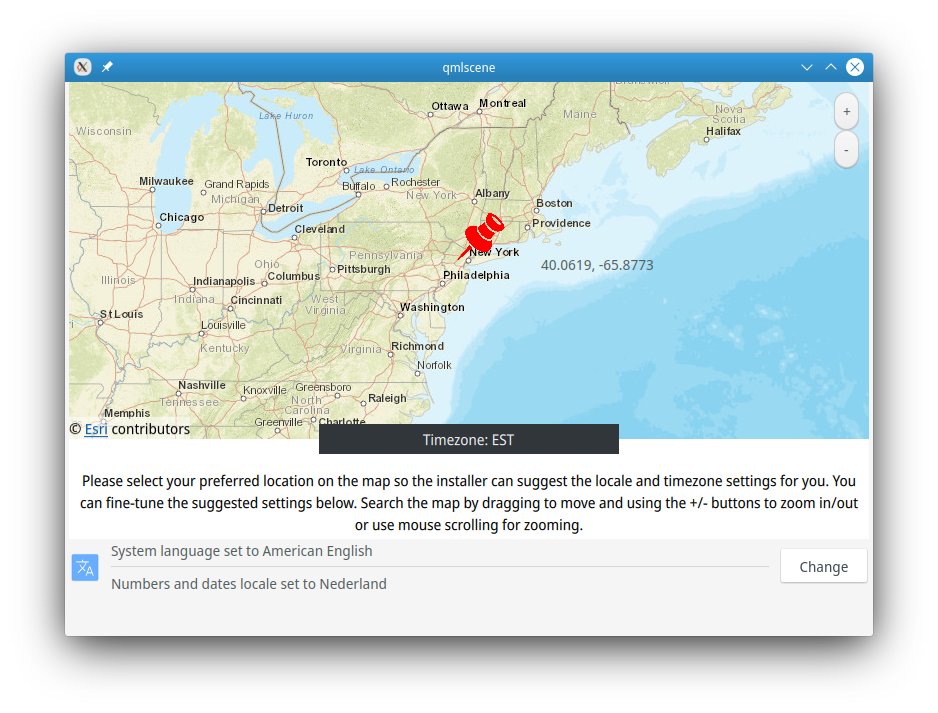
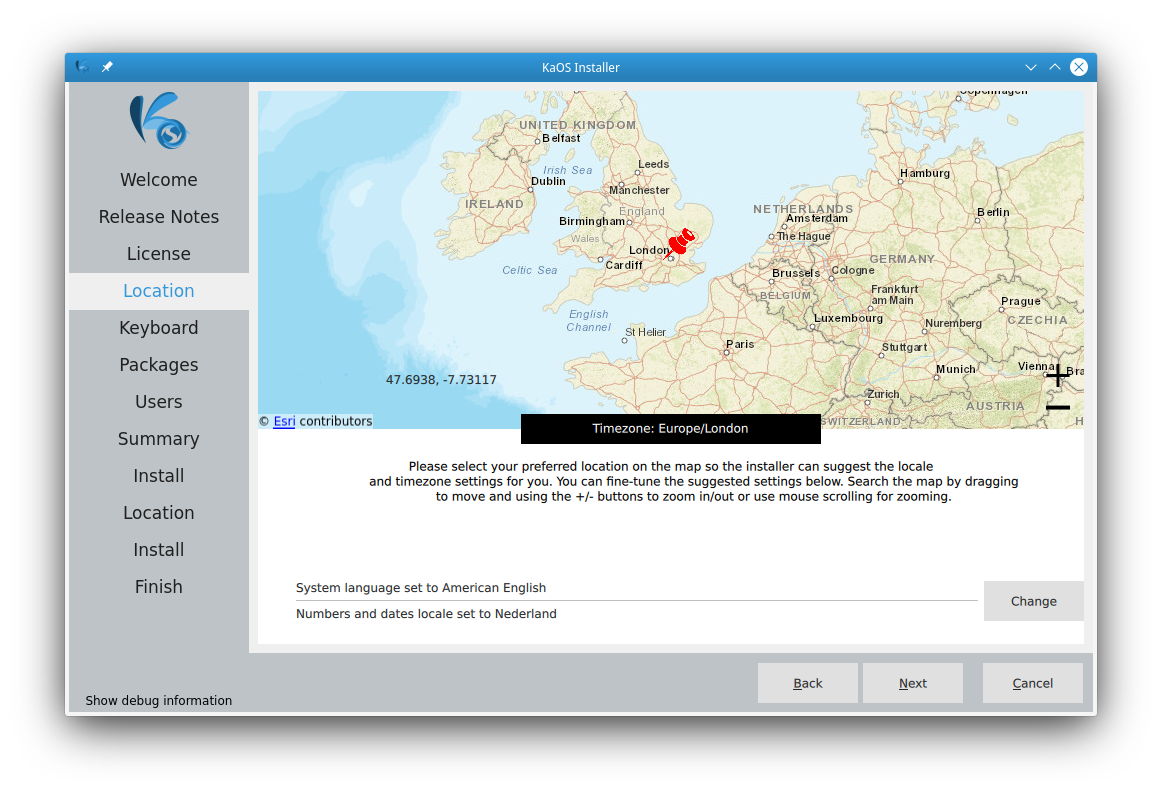
July ISO release new images, updated text, new news page

diff --git a/pages/release_notes/index.html b/pages/release_notes/index.html
@@ -19,28 +19,19 @@ categories: []
 tags: []
 comments: []
 ---
-<h3>KaOS - 2020.05</h3>
-    <p>KaOS is very proud to announce the availability of the May release of a new stable ISO.</p>
+<h3>KaOS - 2020.07</h3>
+    <p>KaOS is very proud to announce the availability of the July release of a new stable ISO.</p>
             
-    <p>This release is unlike the February version, not about many new features, but rather about updates and rebuilds. Most of the base of this distribution has been rebuild on a new GCC 9.3.0, Glibc 2.31 & Binutils 2.34 based Toolchain. Other rebuilds were needed for ICU 66.1, Boost 1.72.0, Krb5 1.18, Glib2 2.64.2 based stack, Guile 2.2.6, Mesa 20.0.6, NetworkManager 1.22.10, Perl 5.30.2, Linux 5.6.8 and Qt 5.14.2.</p>
+    <p>You will find <b>Plasma 5.19</b> on this ISO. Highlights of 5.19 include incorporation of a consistent design and header area for system tray applets as well as notifications, refreshed look of the media playback applet in the System Tray, System monitor widgets have all been rewritten from scratch and Sticky notes get several usability improvements and if you use Wayland, you will also appreciate the new option that lets you configure the mouse and touchpad scroll speed .<br />
+    Frameworks is at 5.72.0, Plasma at 5.19.3, and KDE Applications at 20.04.3. All built on <b>Qt 5.15.0</b>.
     
-    <p>The new features from the last, major, release were numerous, so repeated here one more time. Not since 2014 has there been a KaOS ISO with this many new features.  It starts with the installer, there it is  now possible <b>to select whether or not to install</b> an OfficeSuite (current choice is limited to LibreOffice, future might see the addition of Calligra as option).  You can also opt to do a minimal install. This means opting for a fully functional Plasma Desktop with a filemanager, texteditor, and simple web-browser, but no further applications. So there won't be a music player, image viewer, office suite and so on. You as a user can decide once the system is installed what to add when the minimal install was chosen.</p>
+    <p>For the installer Calamares, KaOS has started a move to using as many QML modules as possible. For the Welcome screen that means any text or needed info can now be shown as a qml file within the Calamares window, no need for pop-ups or external applications. The keyboard module is also rewritten in QML, which now gives a much clearer overview of possible keyboard models, languages and variants.</p>
     
-    <p>That brings us to the next new feature. To help with selecting what to add to your new install, the first run wizard Croeso has the option added <b>to install packages</b> from six commonly used groups. For example, one group will give a choice of four different web-browsers to add, so it is now very simple to add Chrome or Firefox. Since KaOS has never installed an email client by default, there naturally is now a group for that too.<br />
-    The above new feature makes it no longer needed to ship as many applications by default on the ISO,  thus the number of installed packages has been reduced from roughly 980 to a little over 900.</p>
+    <p>A few new firmwares/modules have been added to the repositories, this include sof-firmware (needed for newer sound-cards, will move to linux-firmware soon according to upstream reports) and two new rtl wifi modules (rtl8723de & rtl8821ce). New applications added include Photoflare, the musicplayer VVave (the successor of Babe), and Kdiff3.</p>
     
-    <p>A smaller change is done for the Welcome application as seen in Live mode. The installed package list is now part of the main window with its own tab in the slideview.  No longer is there a need to open a new window for this list.</p>
+    <p>Updates to the base of this distribution include Cfitiso 3.480, Poppler 0.90.1, Pciutils 3.7.0, Git 2.27.0, Libacp 2.39, Pam 1.4.0. Other rebuilds were needed for ICU 66.1, Boost 1.72.0, Krb5 1.18, Glib2 2.64.3 based stack, Guile 2.2.6, Mesa 20.1.3, NetworkManager 1.26.0, Perl 5.30.3, Linux 5.7.8 and Qt 5.15.0.</p>
     
-    <p>The Midna them used for KaOS has been redone for 2020, biggest change there is the move from QtCurve to <b>Kvantum</b> for the application style.  Implemented is a custom Midna Kvantum theme, following the same style as used in Croeso and the Welcome application. Ksplash is simplified with less moving images, SDDM theme has better contrast.  Complete new is <b>theming for the systemd-bootloader</b>, gone is the standard black background with white text, instead, you will see a well-intgrated option with the rest of the Midna theme.  The grub bootloader was updated to follow a similar look as the systemd-bootloader.</p>
-            
-    <p>For the installer Calamares, a second new feature was added.  The Release Notes are now shown in a QML module, so there no longer is a need to work around sandboxing issues with QtWebengine or having to use the depreciated QtWebkit.</p>
-    
-    <p>You will find <b>KDE Applications 20.04.0</b> on this ISO already. Highlights of 20.04 include Okular now implements smooth scrolling both when you are using the mouse wheel and the keyboard, Elisa added visual shuffle mode, it’s much easier to rearrange your music in the playlists. Now you can start watching movies stored on remote sites without having to download them, and instead stream them directly from the cloud to your player through <strong>Dolphin</strong>, which also added the new Duplicate function. One of KDE Connects newest features shipped with this release is the ability to start new conversations with the SMS app.<br />
-    Frameworks is at 5.69.0, Plasma at 5.18.4 and KDE Applications at 20.04.0. All built on <b>Qt 5.14.2</b>.
-    
-    <p>Last new feature you will see on this ISO is the change of package compression standard from tar.xz to tar.zst. ZSTD brings a significant improvement of decompression speed over XZ, while bringing only a marginal larger package size.</p>
-            
-    <p>KaOS is working on a complete rewrite of the Locale module for the installer.  It will feature a modern look (based on QML) with a real live, accurate map.  A preview is included in this ISO, but not ready to be used as default yet (to preview, you will need to edit `/usr/share/calamares/settings.conf` and replace `locale` with `localeq` before starting the installer). Once fully working, it will be presented to upstream Calamares for inclusion there.
+    <p>The Midna them used for KaOS has been redone for 2020, biggest change there is the move from QtCurve to <b>Kvantum</b> for the application style.  Implemented is a custom Midna Kvantum theme, following the same style as used in Croeso and the Welcome application. Ksplash is simplified with less moving images, SDDM theme has better contrast.  Complete new is <b>theming for the systemd-bootloader</b>, gone is the standard black background with white text, instead you will see a well intgrated option with the rest of the Midna theme.  The grub bootloader was updated to follow a similar look as the systemd-bootloader.</p>
     
     <p>Since LibreOffice 6.2, it is now possible to supply this as a pure Qt5/kf5 application.  LibreOffice has thus replaced Calligra as the default Office Application for KaOS.</p>
     
@@ -62,12 +53,12 @@ comments: []
     
     <p>To avoid any misunderstanding and confusion, KaOS is <b>not based upon, derived of, or inspired by</b> any one particular distribution. It is completely independent, build entirely from scratch with its own repositories. To read more about this see <a href="http://kaosx.us/about/based/">FAQ</a>. A <b>rolling release distribution</b> never has a "final" release, every ISO is merely a snapshot of the current status of the repositories. An idea what is currently available:</p>
     
-    <p>The ISO ships with <b>Frameworks 5.69.0, Plasma 5.18.4, KDE Applications 20.04.0</b>, Linux 5.6.8, Systemd 244, Kmod 27, NetworkManager 1.22.10, LibreOffice 6.4.3, Krita 4.2.9, Elisa, Xorg-Server 1.20.8, Mesa 20.0.6, Glibc 2.31, GCC 9.3.0, non-free Nvidia 440.82, Pepperflash and Python3 3.7.7 to name a few.</p>
+    <p>The ISO ships with <b>Frameworks 5.72.0, Plasma 5.19.3, KDE Applications 20.04.3</b>, Linux 5.7.8, Systemd 244, Kmod 27, NetworkManager 1.26.0, LibreOffice 6.4.5, Krita 4.3.0, Elisa, Xorg-Server 1.20.8, Mesa 20.1.3, Glibc 2.31, GCC 9.3.0, non-free Nvidia 440.100, Pepperflash and Python3 3.7.8 to name a few.</p>
     
-    <p>The package manager is <strong>Pacman 5.2.1</strong>, with the simple but powerful Octopi 0.9dev as GUI frontend. Default web browser is Qt based Falkon 3.1.0. <b>GFXboot</b> is included with KaOS artwork, Grub theme is Midna, Look &amp; Feel is a KaOS exclusive version "Midna", redone for 2020.</p>
+    <p>The package manager is <strong>Pacman 5.2.2</strong>, with the simple but powerful Octopi 0.9dev as GUI frontend. Default web browser is Qt based Falkon 3.1.0. <b>GFXboot</b> is included with KaOS artwork, Grub theme is Midna, Look &amp; Feel is a KaOS exclusive version "Midna", redone for 2020.</p>
     
-    <p><b>Repositories</b> of KaOS will stay limited in size and expect it to stay at the current maximum of about 2100-2200. A gist of what is available, besides the stable kernel there is Linux-next 5.6, Calligra 3.2, VLC, Vokoscreen, Blender, Kodi, Calibre, Sigil, Vulkan packages, a few games like 0ad and Knights.<br />
-    A limited number of the most well-known GTK applications are available, examples Firefox 75.0, Chrome 84, Ardour 5.12.0, Inkscape 0.92.5, GIMP 2.10.18 and Google-talkplugin 5.41.3.0.1.<br />
+    <p><b>Repositories</b> of KaOS will stay limited in size and expect it to stay at the current maximum of about 2100-2200. A gist of what is available, besides the stable kernel there is Linux-next 5.7, Calligra 3.2, VLC, Vokoscreen, Blender, Kodi, Calibre, Sigil, Vulkan packages, a few games like 0ad and Knights.<br />
+    A limited number of the most well-known GTK applications are available, examples Firefox 78.0.2, Chrome 85, Ardour 6.2.0 Inkscape 1.0, GIMP 2.10.20 and Google-talkplugin 5.41.3.0.1.<br />
     Complete language packs are available for KDE, Calligra, Firefox, LibreOffice and Thunderbird. For IM, Fcitx 4.2.9.6 is available as a rather complete group.</p>
     
     <p><b>Known issues:</b></p>

diff --git a/_includes/sidebar.html b/_includes/sidebar.html
@@ -1,14 +1,14 @@
 <aside class="Docs-nav">
   <h4>ISO</h4>
-  <img alt="Downloads of KaOS at SourceForge" title="Total downloads from SourceForge" src="https://img.shields.io/sourceforge/dt/kaosx/ISO?color=blue&style=flat-square" >
+  <img alt="Downloads of KaOS at SourceForge" title="Total downloads from SourceForge" src="https://img.shields.io/sourceforge/dt/kaosx?color=blue&style=flat-square" >
 
   <ul style="none">
-    <li><a href="https://sourceforge.net/projects/kaosx/files/ISO/KaOS-2020.05-x86_64.iso" onClick="ga('send', 'event', { eventCategory: 'downloads', eventAction: 'click', eventLabel: 'sf', eventValue: 1});">KaOS ISO</a></li>
-    <li><a href="http://mirror6.layerjet.com/kaos/KaOS-2020.05-x86_64.iso" onClick="ga('send', 'event', { eventCategory: 'downloads', eventAction: 'click', eventLabel: 'de', eventValue: 1});">German Mirror</a></li>
-    <li><a href="http://kaos.youm.org/KaOS-2020.05-x86_64.iso" onClick="ga('send', 'event', { eventCategory: 'downloads', eventAction: 'click', eventLabel: 'fr', eventValue: 1});">French Mirror</a></li>
-    <li><a href="https://mirrors.shu.edu.cn/kaoslinux/KaOS-2020.05-x86_64.iso" onClick="ga('send', 'event', { eventCategory: 'downloads', eventAction: 'click', eventLabel: 'ch', eventValue: 1});">Chinese Mirror</a></li>
-    <li><a href="http://193.86.184.157/kaos/KaOS-2020.05-x86_64.iso" onClick="ga('send', 'event', { eventCategory: 'downloads', eventAction: 'click', eventLabel: 'cz', eventValue: 1});">Czech Mirror</a></li>
-    <a href="https://mirror.math.princeton.edu/pub/kaoslinux/KaOS-2020.05-x86_64.iso" onClick="ga('send', 'event', { eventCategory: 'downloads', eventAction: 'click', eventLabel: 'usa', eventValue: 1});">USA Mirror</a>
+    <li><a href="https://sourceforge.net/projects/kaosx/files/ISO/KaOS-2020.07-x86_64.iso" onClick="ga('send', 'event', { eventCategory: 'downloads', eventAction: 'click', eventLabel: 'sf', eventValue: 1});">KaOS ISO</a></li>
+    <li><a href="http://mirror6.layerjet.com/kaos/KaOS-2020.07-x86_64.iso" onClick="ga('send', 'event', { eventCategory: 'downloads', eventAction: 'click', eventLabel: 'de', eventValue: 1});">German Mirror</a></li>
+    <li><a href="http://kaos.youm.org/KaOS-2020.07-x86_64.iso" onClick="ga('send', 'event', { eventCategory: 'downloads', eventAction: 'click', eventLabel: 'fr', eventValue: 1});">French Mirror</a></li>
+    <li><a href="https://mirrors.shu.edu.cn/kaoslinux/KaOS-2020.07-x86_64.iso" onClick="ga('send', 'event', { eventCategory: 'downloads', eventAction: 'click', eventLabel: 'ch', eventValue: 1});">Chinese Mirror</a></li>
+    <li><a href="http://193.86.184.157/kaos/KaOS-2020.07-x86_64.iso" onClick="ga('send', 'event', { eventCategory: 'downloads', eventAction: 'click', eventLabel: 'cz', eventValue: 1});">Czech Mirror</a></li>
+    <a href="https://mirror.math.princeton.edu/pub/kaoslinux/KaOS-2020.07-x86_64.iso" onClick="ga('send', 'event', { eventCategory: 'downloads', eventAction: 'click', eventLabel: 'usa', eventValue: 1});">USA Mirror</a>
     <!--<li><a href="https://iso.k0nsl.org/KaOS/KaOS-2017.04-x86_64.iso"  onClick="ga('send', 'event', { eventCategory: 'downloads', eventAction: 'click', eventLabel: 'usa2', eventValue: 1});">Second USA Mirror</a></li> -->
     <!--<li><a href="https://distrowatch.com/dwres/torrents/KaOS-2019.06-x86_64.iso.torrent" onClick="ga('send', 'event', { eventCategory: 'downloads', eventAction: 'click', eventLabel: 'torrent', eventValue: 1});">KaOS Torrent</a></li> -->
     <!--<li><a href="{{ site.baseurl }}/media/KaOS-2018.04-x86_64.iso.torrent" onClick="ga('send', 'event', { eventCategory: 'downloads', eventAction: 'click', eventLabel: 'torrent2', eventValue: 1});">Second KaOS Torrent</a></li> -->
@@ -26,7 +26,7 @@
   
   <ul style="none">
     <li><a href="{{ site.baseurl }}/media/KaOS.asc">KaOS Signing Key</a></li>
-    <li><a href="{{ site.baseurl }}/media/KaOS-2020.05-x86_64.iso.sig">ISO GPG signature</a></li>
+    <li><a href="{{ site.baseurl }}/media/KaOS-2020.07-x86_64.iso.sig">ISO GPG signature</a></li>
   </ul>
   
   <h4>Mirrors</h4>

diff --git a/_news/2020/kaos07.md b/_news/2020/kaos07.md
@@ -1,0 +1,76 @@
+---
+layout: news
+title: KaOS 2020.07
+permalink: /news/2020/kaos07/
+date: '2020-07-18 01:23:31 -0500'
+date_gmt: '2020-07-18 01:23:31 -0500'
+---
+
+{% include image.html
+            img="img/2020/midna2020.png"
+            title="KaOS"
+            caption="KaOS"
+            url="/img/2020/midna2020.png" %}
+            
+It is with great pleasure to present to you the July release of a new stable ISO. 
+
+You will find [Plasma 5.19](https://kde.org/announcements/plasma-5.19.0){:target="_blank"} on this ISO. Highlights of 5.19 include incorporation of a consistent design and header area for system tray applets as well as notifications, refreshed look of the media playback applet in the System Tray, System monitor widgets have all been rewritten from scratch and Sticky notes get several usability improvements and if you use Wayland, you will also appreciate the new option that lets you configure the mouse and touchpad scroll speed.             Frameworks is at 5.72.0, Plasma at 5.19.3, and KDE Applications at 20.04.3. All built on **Qt 5.15.0**.
+{% include image.html
+            img="img/2020/plasma519.png"
+            title="Plasma 5.19"
+            caption="Plasma 5.19"
+            url="/img/2020/plasma519.png" %}
+For the installer Calamares, KaOS has started a move to using as many QML modules as possible. For the Welcome screen that means any text or needed info can now be shown as a qml file within the Calamares window, no need for pop-ups or external applications. The keyboard module is also rewritten in QML, which now gives a much clearer overview of possible keyboard models, languages and variants.
+
+A few new firmwares/modules have been added to the repositories, this include sof-firmware (needed for newer sound-cards, will move to linux-firmware soon according to upstream reports) and two new rtl wifi modules (rtl8723de & rtl8821ce). New applications added include Photoflare, the musicplayer VVave (the successor of Babe) and Kdiff3.
+{% include image.html
+            img="img/2020/cala_welcomeqml.png"
+            title="Calamares Welcome QML Module"
+            caption="Calamares Welcome QML Module"
+            url="/img/2020/cala_welcomeqml.png" %}
+            
+Updates to the base of this distribution include Cfitiso 3.480, Poppler 0.90.1, Pciutils 3.7.0, Git 2.27.0, Libacp 2.39, Pam 1.4.0. Other rebuilds were needed for ICU 66.1, Boost 1.72.0, Krb5 1.18, Glib2 2.64.3 based stack, Guile 2.2.6, Mesa 20.1.3, NetworkManager 1.26.0, Perl 5.30.3, Linux 5.7.8 and Qt 5.15.0. 
+
+
+The Midna theme used for KaOS has been redone for 2020, biggest change there is the move from QtCurve to **Kvantum** for the application style.  Implemented is a custom Midna Kvantum theme, following the same style as used in Croeso and the Welcome application. 
+{% include image.html
+            img="img/2020/cala_keyboardqml.png"
+            title="Calamares Keyboard QML Module"
+            caption="Calamares Keyboard QML Module"
+            url="/img/2020/cala_keyboardqml.png" %}
+Ksplash is simplified with less moving images, SDDM theme has better contrast.  Complete new is **theming for the systemd-bootloader**, gone is the standard black background with white text, instead, you will see a well-integrated option with the rest of the Midna theme.  The grub bootloader was updated to follow a similar look as the systemd-bootloader.
+
+KaOS is working on a complete rewrite of the Locale module for the installer.  It will feature a modern look (based on QML) with a real live, accurate map.  Once fully working, it will be presented to upstream Calamares for inclusion there.
+
+{% include image.html
+            img="img/2020/croeso_packages.png"
+            title="Package Group Selection"
+            caption="Package Group Selection"
+            url="/img/2020/croeso_packages.png" %}
+
+## Common Notes
+The Linux kernel has all the needed ucode build-in for a fully automated Early Microcode update. 
+
+KaOS uses the Systemd provided Systemd-boot for UEFI installs.
+
+Included is a KaOS specific tool to write ISO files to USB. Not only does **IsoWriter** write to USB it also gives the option to recover your USB stick after using it for an ISO, something that regular dd copy or the previously used Imagewriter were not able to do.  New in this version is the ability to **verify the integrity of the written USB flash drive** in comparison to the downloaded ISO file.  This can be done in Dolphin too, right-click the ISO file, select Actions then select Verify ISO Write 
+
+Since LibreOffice 6.2, it is now possible to supply this as a pure Qt5/kf5 application. **LibreOffice** has thus replaced Calligra as the default Office Application for KaOS.
+
+KaOS' creation **Croeso** (Welsh for welcome) for helping with configuring a new install is included. It will run on the newly installed system and offers to adjust some 15 commonly used settings, includes a custom Wallpaper selector, distribution info, and the option to select packages to install from six different groups.  It is written in QML and fits well with the Welcome application used in the Live system.  The latter includes an Installation Guide.
+{% include image.html
+            img="img/2020/localeq.png"
+            title="Preview of new Locale module"
+            caption="Preview of new Locale module for installer"
+            url="/img/2020/localeq.png" %}
+This ISO uses the **CRC and finobt enabled** XFS filesystem as default. CRCs enable enhanced error detection due to hardware issues, whilst the format changes also improves crash recovery algorithms and the ability of various tools to validate and repair metadata corruptions when they are found. The free inode btree does not index used inodes, allowing faster, more consistent inode allocation performance as filesystems age.
+
+The artwork includes custom icon themes for light and dark themes. Midna and Midna Dark both create a complete unified look from boot-up all the way through logout.
+
+There is an option to verify the authenticity of downloaded KaOS ISO files **through GPG signature verification**, see the [Download page](https://kaosx.us/pages/download/#authenticity-check){:target="_blank"} for further details and instructions.
+
+## Known issues:
+* Some Intel CPU systems might have an issue kernel’s entropy pool and have a long boot delay if encountered add **random.trust_cpu=1** to the kernel boot line.
+* Installing on RAID is currently not possible
+
+To create **reliable** installation media, please follow the instructions from the [Download](http://kaosx.us/download/){:target="_blank"} page. KaOS ISO's **do not support Unetbootin or Rufus**, and DVDs need a burn speed **no higher than 4x**.

diff --git a/pages/download/index.md b/pages/download/index.md
@@ -24,17 +24,17 @@ comments: []
 
 KaOS makes regular ISO releases available, so any (new) user is not confronted with a large or complicated first update. Those who already have KaOS installed do not need to reinstall, a regular `sudo pacman -Syu` will always give you the latest.
 
-[Release Notes]({{ site.baseurl }}/pages/release_notes) for KaOS 2020.05 ISO
+[Release Notes]({{ site.baseurl }}/pages/release_notes) for KaOS 2020.07 ISO
 
 <div id="wrapper4">
-<p><b>SHA256SUM KaOS 2020.05:</b> <code>33cda20aba7a1c6e04755f0860b053f85e54b5b42779457f4f7d18b5dd8ef214</code></p>
+<p><b>SHA256SUM KaOS 2020.07:</b> <code>4e151b47b2b4a8b0b69d41e317415a91a2f2b5bfb0c6303f1fe61d389067c6a2</code></p>
 <p><b>SIZE: 2.2GiB</b></p>
 </div>
 
 ### Current Version
 {: .offset}
-The May version ships with Plasma 5 as the default desktop, it includes non-free Nvidia drivers, KDE Applications 20.04.0, Linux kernel 5.6.8 (Linux-next is in the repo's, following the 5.6 series), GCC 9.3.0, Glibc 2.31, Systemd 244, Kmod 27, Xorg-server 1.21.8, Qt 5.14.2, Mesa 20.0.6, LibreOffice 6.4.3, Elisa and the latest versions of Falkon, Octopi, Kde-Telepathy.
-For those wondering about gtk apps, Firefox 75.0, Chrome 84, Thunderbird 68.7, GIMP 2.10.18, Ardour 5.12.0 are among the available in their latest version.
+The July version ships with Plasma 5 as the default desktop, it includes non-free Nvidia drivers, KDE Applications 20.04.3, Linux kernel 5.7.8 (Linux-next is in the repo's, following the 5.7 series), GCC 9.3.0, Glibc 2.31, Systemd 244, Kmod 27, Xorg-server 1.21.8, Qt 5.15.0, Mesa 20.1.3, LibreOffice 6.4.5, Elisa and the latest versions of Falkon, Octopi, Kde-Telepathy.
+For those wondering about gtk apps, Firefox 78.0.2, Chrome 85, Thunderbird 78.0, GIMP 2.10.20, Ardour 6.2.0 are among the available in their latest version.
 
 ### Known Issues
 {: .offset}
@@ -54,5 +54,5 @@ gpg --import KaOS.asc
 ```
 Next download the ISO GPG Signature to the same directory as where you downloaded the ISO and verify with (adjust for correct year and date):
 ```
-gpg --verify KaOS-2020.05-x86_64.iso.sig
+gpg --verify KaOS-2020.07-x86_64.iso.sig
 ```
